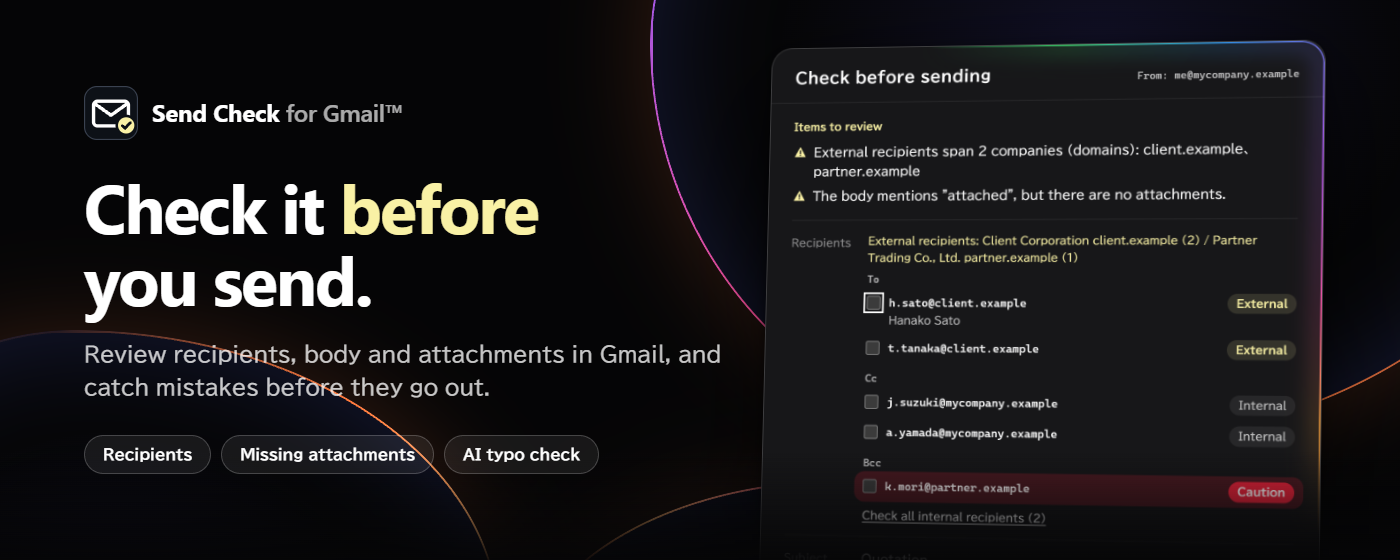
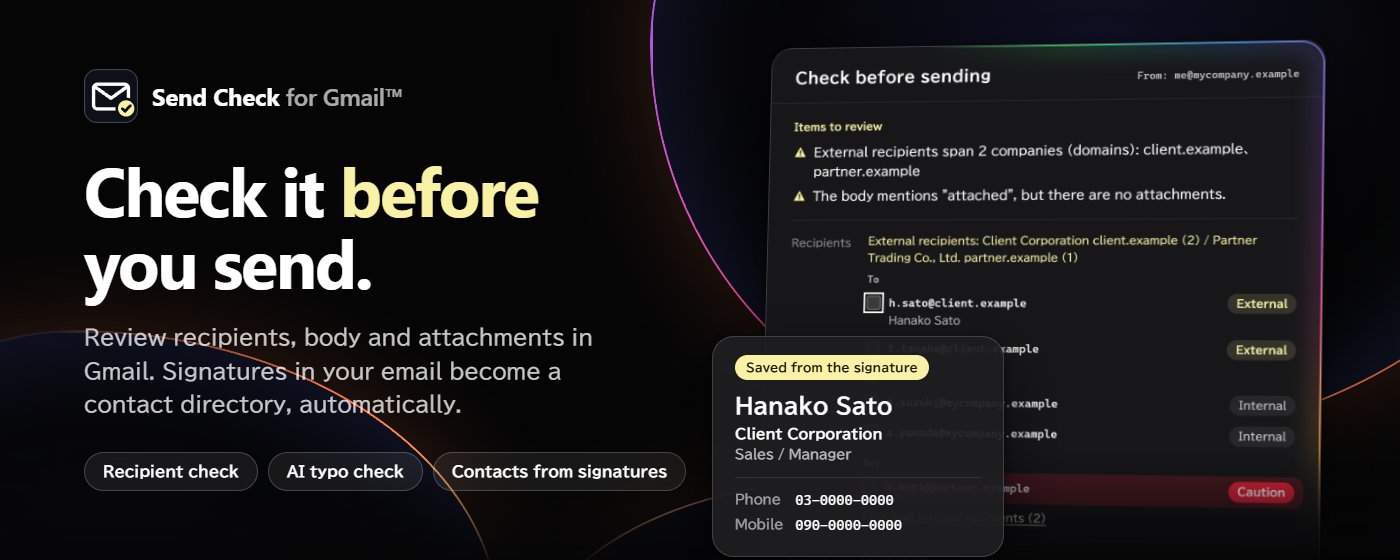
docs: highlight the contact directory in the store description and marquee

Changed region(s): [[0.0614, 0.4554, 0.7371, 1.0], [0.0614, 0.3036, 0.3993, 0.4554], [0.0614, 0.1214, 0.3071, 0.2429]]

diff --git a/store/promo/marquee.html b/store/promo/marquee.html
@@ -130,6 +130,7 @@
         color: #f9f1a5;
       }
       .lead {
+        max-width: 570px;
         margin: 24px 0 0;
         color: rgba(255, 255, 255, 0.78);
         font-size: 21px;
@@ -182,6 +183,69 @@
         border-radius: inherit;
         pointer-events: none;
       }
+      /* 署名から登録された連絡先の例（確認ダイアログの手前に重ねる） */
+      .contact {
+        position: absolute;
+        top: 336px;
+        left: 712px;
+        z-index: 2;
+        width: 292px;
+        padding: 18px 22px 20px;
+        border: 1px solid rgba(255, 255, 255, 0.16);
+        border-radius: 22px;
+        background: rgba(30, 30, 33, 0.94);
+        box-shadow:
+          0 2px 8px rgba(0, 0, 0, 0.5),
+          0 24px 60px rgba(0, 0, 0, 0.6);
+      }
+      .contact p {
+        margin: 0;
+      }
+      .contact .label {
+        display: inline-block;
+        margin-bottom: 12px;
+        padding: 4px 11px;
+        border-radius: 999px;
+        background: #f9f1a5;
+        color: #17170f;
+        font-weight: 700;
+        font-size: 12px;
+        line-height: 1.4;
+      }
+      .contact .name {
+        font-weight: 700;
+        font-size: 22px;
+        line-height: 1.3;
+      }
+      .contact .company {
+        margin-top: 4px;
+        font-weight: 700;
+        font-size: 14px;
+        line-height: 1.5;
+      }
+      .contact .role {
+        color: rgba(255, 255, 255, 0.72);
+        font-size: 13px;
+        line-height: 1.5;
+      }
+      .contact dl {
+        display: grid;
+        grid-template-columns: auto 1fr;
+        gap: 4px 12px;
+        margin: 12px 0 0;
+        padding-top: 12px;
+        border-top: 1px solid rgba(255, 255, 255, 0.1);
+        font-size: 13px;
+        line-height: 1.5;
+      }
+      .contact dt {
+        color: rgba(255, 255, 255, 0.6);
+      }
+      .contact dd {
+        margin: 0;
+        font-family: 'Cascadia Mono', Consolas, monospace;
+        font-size: 14px;
+      }
       /* 下の端は、背景になじませる */
       .fade {
         position: absolute;
@@ -200,6 +264,18 @@
       <div class="dialog"><img id="shot" src="marquee-dialog.ja.png" alt="" /></div>
     </div>
     <div class="fade"></div>
+    <div class="contact" id="contact">
+      <p class="label" id="c-label"></p>
+      <p class="name" id="c-name"></p>
+      <p class="company" id="c-company"></p>
+      <p class="role" id="c-role"></p>
+      <dl>
+        <dt id="c-phone-k"></dt>
+        <dd id="c-phone-v"></dd>
+        <dt id="c-mobile-k"></dt>
+        <dd id="c-mobile-v"></dd>
+      </dl>
+    </div>
     <div class="copy">
       <div class="brand">
         <svg xmlns="http://www.w3.org/2000/svg" viewBox="16 16 96 96">
@@ -254,14 +330,30 @@
       const text = en
         ? {
             head: ['Check it ', 'before', 'you send.'],
-            lead: 'Review recipients, body and attachments in Gmail, and catch mistakes before they go out.',
-            pills: ['Recipients', 'Missing attachments', 'AI typo check'],
+            lead: 'Review recipients, body and attachments in Gmail. Signatures in your email become a contact directory, automatically.',
+            pills: ['Recipient check', 'AI typo check', 'Contacts from signatures'],
+            card: {
+              label: 'Saved from the signature',
+              name: 'Hanako Sato',
+              company: 'Client Corporation',
+              role: 'Sales / Manager',
+              phone: ['Phone', '03-0000-0000'],
+              mobile: ['Mobile', '090-0000-0000'],
+            },
             shot: 'marquee-dialog.en.png',
           }
         : {
             head: ['その送信、', 'もう一度', 'だけ確認。'],
-            lead: '宛先・本文・添付を送信前に確かめて、Gmail の誤送信を防ぎます。',
-            pills: ['宛先の確認', '添付漏れ', 'AI で誤字チェック'],
+            lead: '宛先・本文・添付を送信前に確認。メールの署名から、会社名や電話番号も台帳に自動で残せます。',
+            pills: ['宛先の確認', 'AI で誤字チェック', '署名から連絡先を登録'],
+            card: {
+              label: '署名から自動で登録',
+              name: '佐藤 花子',
+              company: '株式会社クライアント',
+              role: '営業部 課長',
+              phone: ['電話', '03-0000-0000'],
+              mobile: ['携帯', '090-0000-0000'],
+            },
             shot: 'marquee-dialog.ja.png',
           };
       const head = document.getElementById('head');
@@ -278,6 +370,17 @@
         document.getElementById('pills').append(pill);
       }
       document.getElementById('shot').src = text.shot;
+      const set = (id, value) => {
+        document.getElementById(id).textContent = value;
+      };
+      set('c-label', text.card.label);
+      set('c-name', text.card.name);
+      set('c-company', text.card.company);
+      set('c-role', text.card.role);
+      set('c-phone-k', text.card.phone[0]);
+      set('c-phone-v', text.card.phone[1]);
+      set('c-mobile-k', text.card.mobile[0]);
+      set('c-mobile-v', text.card.mobile[1]);
     </script>
   </body>
 </html>
